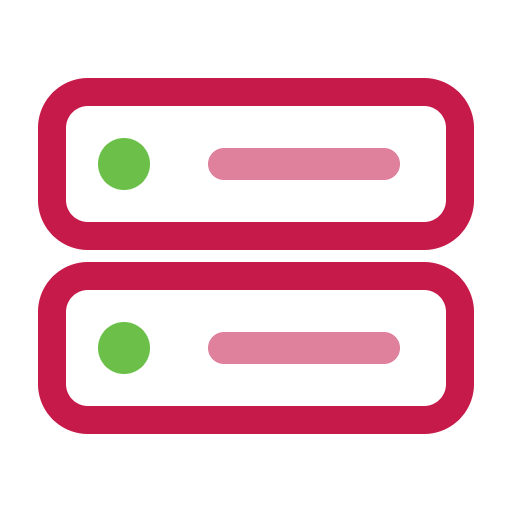
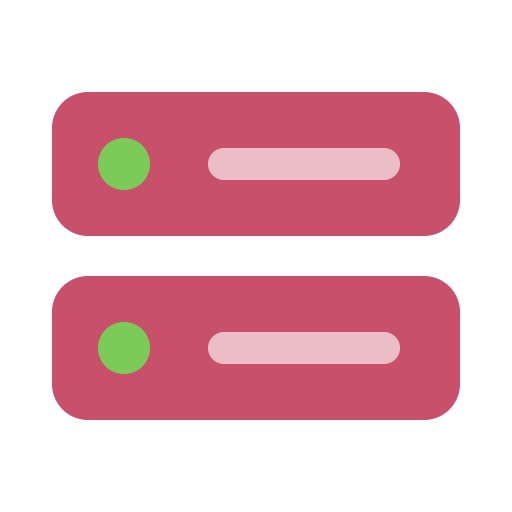
mark: solid fills, softer red
The bays were outlines 14 units wide. At 16 px that is under one pixel, so in a browser
tab the mark thinned out to grey scratches — the size that matters most was the size it
survived worst. They are filled shapes now, and the slot inside each bay became a light
cut rather than a second red, which is what makes the fill readable at any size.

The red moved from #c51a4a to #c8506b: less saturated and a touch lighter. The old value
was chosen to match a berry that is no longer anywhere in this project.

diff --git a/tools/make-icons.py b/tools/make-icons.py
@@ -17,7 +17,9 @@ import math, os, struct, sys, zlib
 # --- the mark ---------------------------------------------------------------
 # Two stacked drive bays with a live indicator each — the mark that was already in the
 # panel header before the Raspberry Pi support came out, kept because it is the one that
-# looks right there. Berry red #c51a4a and the indicator green #6cc04a.
+# looks right there. Solid fills rather than outlines: at 16 px a 14-unit stroke is under
+# a pixel wide and the whole mark went grey and thin in a browser tab. The red is a softer,
+# lighter #c8506b — the old #c51a4a was picked to match a berry that is no longer here.
 #
 # The art box is 256x232, NOT square, exactly as web/icon.svg has always been: the header
 # and every other CSS size rule are written against that viewBox. The square PNGs pad it
@@ -27,15 +29,15 @@ import math, os, struct, sys, zlib
 # Everything is drawn from LAYERS below, painted in order onto a TRANSPARENT ground. Each
 # layer is a colour, an opacity and a signed distance function in art-box units, so every
 # size is the same drawing rather than a resampled screenshot of a bigger one.
-RED   = "#c51a4a"
-GREEN = "#6cc04a"
+RED   = "#c8506b"      # bay fill
+GREEN = "#7bcb59"      # live indicator
+LIGHT = "#ffffff"      # the slot cut into the bay
 
 ART_W, ART_H = 256.0, 232.0
 BAYS   = ((26.0, 34.0, 204.0, 72.0, 18.0), (26.0, 126.0, 204.0, 72.0, 18.0))
-BAY_W  = 14.0            # outline stroke width
 DOTS   = ((62.0, 70.0, 13.0), (62.0, 162.0, 13.0))
 SLOTS  = ((104.0, 62.0, 96.0, 16.0, 8.0), (104.0, 154.0, 96.0, 16.0, 8.0))
-SLOT_A = 0.55            # the slot fills are translucent
+SLOT_A = 0.62            # the slot reads as a lighter cut in the fill, not a second colour
 
 
 def _hex(c):
@@ -59,11 +61,6 @@ def _sd_segment(x, y, ax, ay, bx, by):
     return math.hypot(pax - bax * h, pay - bay * h)
 
 
-def _sd_outline(x, y, rect, w):
-    """Distance to the OUTLINE of a rounded rect: the filled distance, mirrored."""
-    return abs(_sd_round_rect(x, y, *rect)) - w / 2.0
-
-
 def _sd_circle(x, y, cx, cy, r):
     return math.hypot(x - cx, y - cy) - r
 
@@ -72,13 +69,13 @@ def _sd_min(x, y, fns):
     return min(f(x, y) for f in fns)
 
 
-# painted in order onto transparent: bay outlines, indicator dots, translucent slots
+# painted in order onto transparent: the solid bays, then what sits inside them
 LAYERS = (
     (RED,   1.0,     lambda x, y: _sd_min(x, y, [
-        lambda x, y, r=r: _sd_outline(x, y, r, BAY_W) for r in BAYS])),
+        lambda x, y, r=r: _sd_round_rect(x, y, *r) for r in BAYS])),
     (GREEN, 1.0,     lambda x, y: _sd_min(x, y, [
         lambda x, y, d=d: _sd_circle(x, y, *d) for d in DOTS])),
-    (RED,   SLOT_A,  lambda x, y: _sd_min(x, y, [
+    (LIGHT, SLOT_A,  lambda x, y: _sd_min(x, y, [
         lambda x, y, s=s: _sd_round_rect(x, y, *s) for s in SLOTS])),
 )
 
@@ -135,7 +132,7 @@ SVG = '''<svg xmlns="http://www.w3.org/2000/svg" aria-label="NAS" role="img" vie
   <!-- NAS-OS brand mark: two stacked drive bays, one live indicator each. Generated by
        tools/make-icons.py, which renders every PNG size from these same numbers; edit the
        shape THERE, not here, or the SVG and the icons drift apart. -->
-  <g fill="none" stroke="{red}" stroke-width="{bw:g}" stroke-linejoin="round">
+  <g fill="{red}">
     <rect x="{b0x:g}" y="{b0y:g}" width="{b0w:g}" height="{b0h:g}" rx="{b0r:g}"/>
     <rect x="{b1x:g}" y="{b1y:g}" width="{b1w:g}" height="{b1h:g}" rx="{b1r:g}"/>
   </g>
@@ -143,7 +140,7 @@ SVG = '''<svg xmlns="http://www.w3.org/2000/svg" aria-label="NAS" role="img" vie
     <circle cx="{d0x:g}" cy="{d0y:g}" r="{d0r:g}"/>
     <circle cx="{d1x:g}" cy="{d1y:g}" r="{d1r:g}"/>
   </g>
-  <g fill="{red}" opacity="{sa:g}">
+  <g fill="{light}" opacity="{sa:g}">
     <rect x="{s0x:g}" y="{s0y:g}" width="{s0w:g}" height="{s0h:g}" rx="{s0r:g}"/>
     <rect x="{s1x:g}" y="{s1y:g}" width="{s1w:g}" height="{s1h:g}" rx="{s1r:g}"/>
   </g>
@@ -156,7 +153,7 @@ def main():
         os.path.dirname(os.path.dirname(os.path.abspath(__file__))), "web")
     with open(os.path.join(web, "icon.svg"), "w") as f:
         f.write(SVG.format(
-            aw=ART_W, ah=ART_H, red=RED, green=GREEN, bw=BAY_W, sa=SLOT_A,
+            aw=ART_W, ah=ART_H, red=RED, green=GREEN, light=LIGHT, sa=SLOT_A,
             b0x=BAYS[0][0], b0y=BAYS[0][1], b0w=BAYS[0][2], b0h=BAYS[0][3], b0r=BAYS[0][4],
             b1x=BAYS[1][0], b1y=BAYS[1][1], b1w=BAYS[1][2], b1h=BAYS[1][3], b1r=BAYS[1][4],
             d0x=DOTS[0][0], d0y=DOTS[0][1], d0r=DOTS[0][2],
